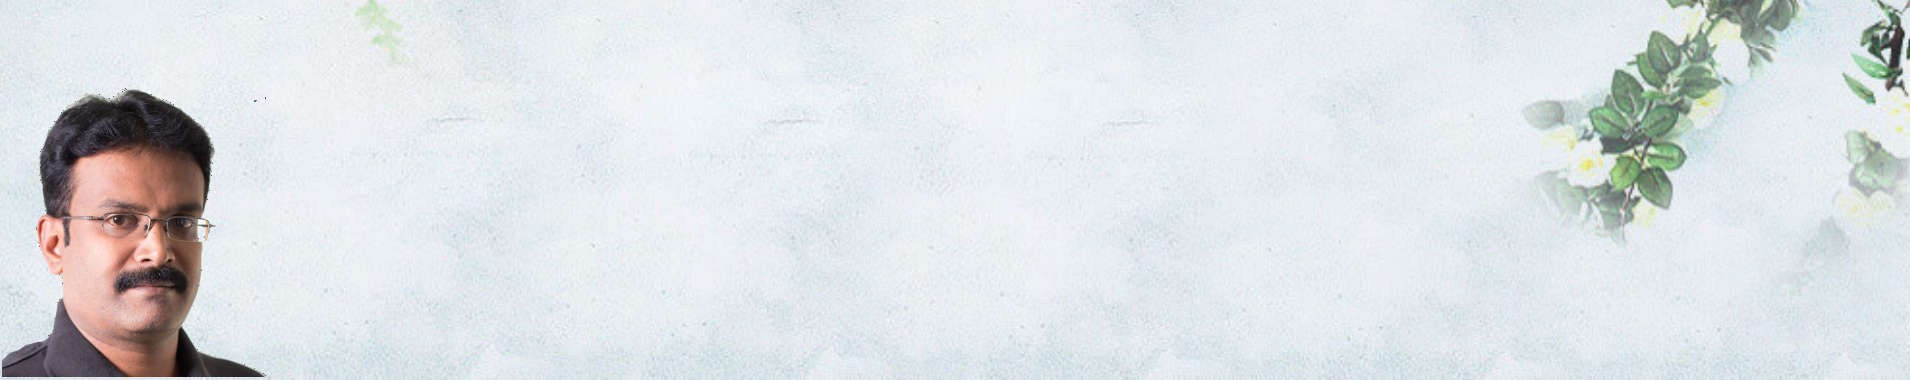
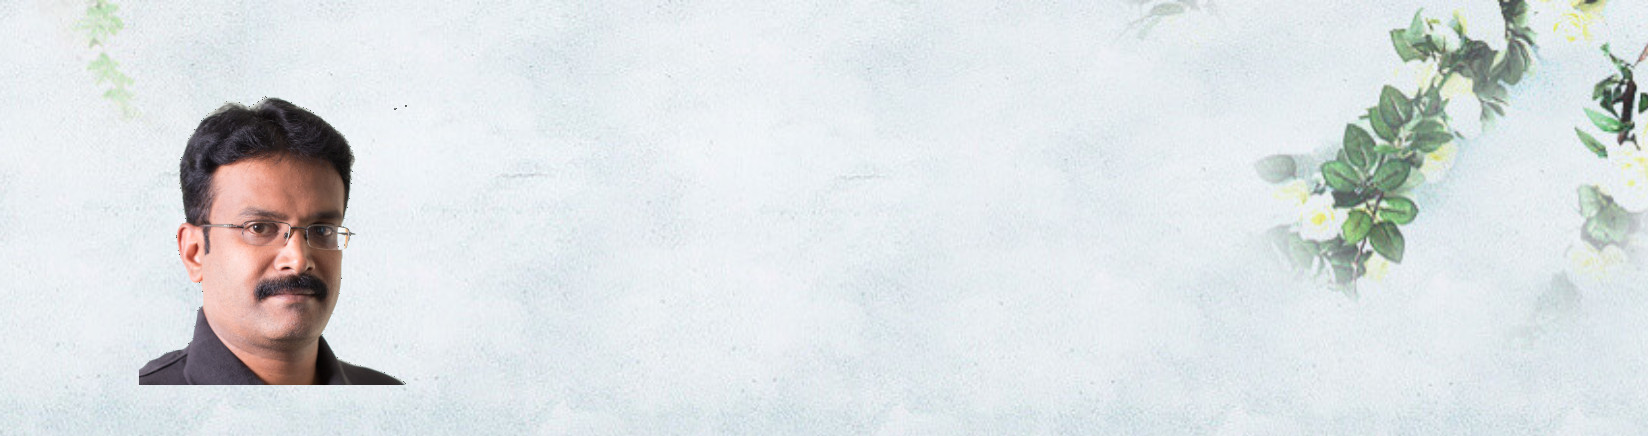
bacnkground changes

diff --git a/src/app/examples/concordhome/concordhome.component.html b/src/app/examples/concordhome/concordhome.component.html
@@ -98,7 +98,7 @@
 
     <div class="section section-dark text-center">
         <div class="container">
-            <h2 class="title">Founders</h2>
+            <h2 class="title">Let's Talk About Us</h2>
             <div class="row" style="padding-bottom: 30px;">
                 <div class="col-lg-6 col-md-12">
                     <div class="card card-profile card-plain">
@@ -163,7 +163,7 @@
             <div class="row">
                 <div class="col-md-8 mr-auto ml-auto">
                     <h2 class="title text-center">Contact Us</h2>
-                    <form class="contact-form">
+                    <form  #contactform ="ngForm" (ngSubmit) = "sendmail(contactform)" class="contact-form">
                         <div class="row">
                             <div class="col-md-6">
                                 <label>Name</label>
@@ -171,9 +171,16 @@
                                     <div class="input-group-prepend">
                                         <span class="input-group-text"><i class="nc-icon nc-single-02"></i></span>
                                     </div>
-                                    <input type="text" class="form-control" placeholder="Name" (focus)="focus=true"
-                                        (blur)="focus=false">
+                                    <input type="text" class="form-control" name="contactname" placeholder="Enter Name" (focus)="focus=true"
+                                        (blur)="focus=false" [(ngModel)]="emailcontent.name" #contactname="ngModel" required minlength="4"  >
                                 </div>
+                                <div *ngIf="contactname.invalid && (contactname.dirty || contactname.touched)" class="alert alert-danger">
+                                <div *ngIf="contactname.errors.required">  
+                                    Name is required.  
+                                  </div>
+                                </div>
+
+                                
                             </div>
                             <div class="col-md-6">
                                 <label>Email</label>
@@ -185,13 +192,23 @@
                                         (blur)="focus1=false">
                                 </div>
                             </div>
+                            <div class="col-md-6">
+                                <label>Mobile</label>
+                                <div class="input-group" [ngClass]="{'input-group-focus has-error':focus1===true}">
+                                    <div class="input-group-prepend">
+                                        <span class="input-group-text"> <i class="nc-icon nc-email-85"></i></span>
+                                    </div>
+                                    <input type="text" name="mobileno" class="form-control" placeholder="mo bile" (focus)="focus1=true"
+                                        (blur)="focus1=false" [pattern]="mobnumPattern" required [(ngModel)]="emailcontent.mobile" #mobileno="ngModel">
+                                </div>
+                            </div>
                         </div>
                         <label>Message</label>
                         <textarea class="form-control" rows="4"
                             placeholder="Tell us your thoughts and feelings..."></textarea>
                         <div class="row">
                             <div class="col-md-4 mr-auto ml-auto">
-                                <button class="btn btn-danger btn-lg btn-fill btn-round">Send Message</button>
+                                <button type ="submit" class="btn btn-danger btn-lg btn-fill btn-round">Send Message</button>
                             </div>
                         </div>
                     </form>

diff --git a/src/app/examples/concordhome/concordhome.component.ts b/src/app/examples/concordhome/concordhome.component.ts
@@ -1,5 +1,8 @@
 import { Component, OnInit, Renderer } from '@angular/core';
 import { NgbDateStruct } from '@ng-bootstrap/ng-bootstrap';
+import { NgForm } from '@angular/forms';
+import { EmailContent } from 'services/emailcontent';
+
 
 @Component({
   selector: 'app-concordhome',
@@ -7,7 +10,9 @@ import { NgbDateStruct } from '@ng-bootstrap/ng-bootstrap';
   styleUrls: ['./concordhome.component.scss']
 })
 export class ConcordhomeComponent implements OnInit {
-
+  emailcontent = new EmailContent();
+  emailPattern = '^[a-z0-9._%+-]+@[a-z0-9.-]+\.[a-z]{2,4}$';
+  mobnumPattern = '^((\\+91-?)|0)?[0-9]{10}$';
   page = 4;
     page1 = 5;
     focus;
@@ -27,4 +32,13 @@ export class ConcordhomeComponent implements OnInit {
   ngOnInit() {
   }
 
+  sendmail(form:NgForm){
+    if (form.invalid) {  
+       
+      return;  
+   }
+    alert("submit");
+    form.resetForm();
+    
+  }
 }

diff --git a/src/assets/sass/paper-kit/_variables.scss b/src/assets/sass/paper-kit/_variables.scss
@@ -1,4 +1,4 @@
-$font-color:                 #66615B !default;
+$font-color:                 rgb(54, 54, 53) !default;
 $fill-font-color:            rgba(116, 76, 76, 0.8);
 $font-family-sans-serif:     'Montserrat', "Helvetica", Arial, sans-serif;
 

diff --git a/src/services/emailcontent.ts b/src/services/emailcontent.ts
@@ -1,0 +1,7 @@
+export class EmailContent{
+    public emailid: string;
+    public mobile: string;
+    public message:string;
+    public name:string;
+
+}
